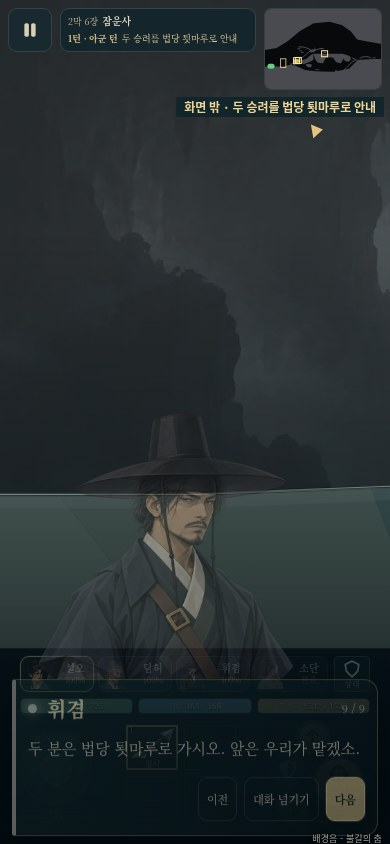
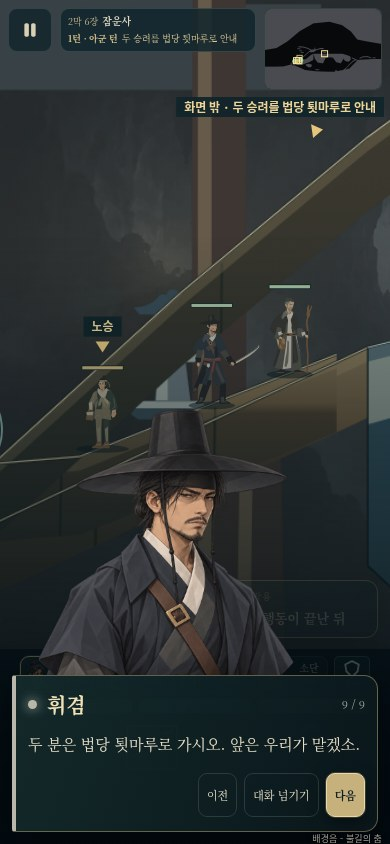
docs(stage16): replace only the stable witness review capture

diff --git a/game/docs/stage16-escort-pilot-a-20261024/screenshots/README.md b/game/docs/stage16-escort-pilot-a-20261024/screenshots/README.md
@@ -9,3 +9,7 @@
 - 390-complete: 이 준비 fixture의 단일 보상/승리 모달(4턴). 정상 전투 검사의 8턴은 별도 native 입력 기록이다.
 
 소스/생성물 후보와 캡처를 분리하기 위한 review 브랜치다. 최종 미술 판정과 master/Pages 반영은 부모가 담당한다.
+
+## 부모 검토 후 증언 한 컷 교체
+
+390-witness-order만 source 4d53f8ce / entry game.7e7357a01737b7b3.js에서 다시 촬영했다. 1.4초 전환 안정화·초상화 decode 후 유효 불투명도 1이며, 정상 대화 카메라에서 노승과 현장 인물이 보이도록 위치를 준비했다. 나머지 다섯 JPG는 그대로다. 적 없는 4턴 결과와 정상 자원 전투 결과를 구분하는 위 한계도 그대로 유지한다. witness-idle-proof.json은 정상 frame의 실제 저장 호출 계측이며, 사용자 실제 저장은 사용하지 않았다.
